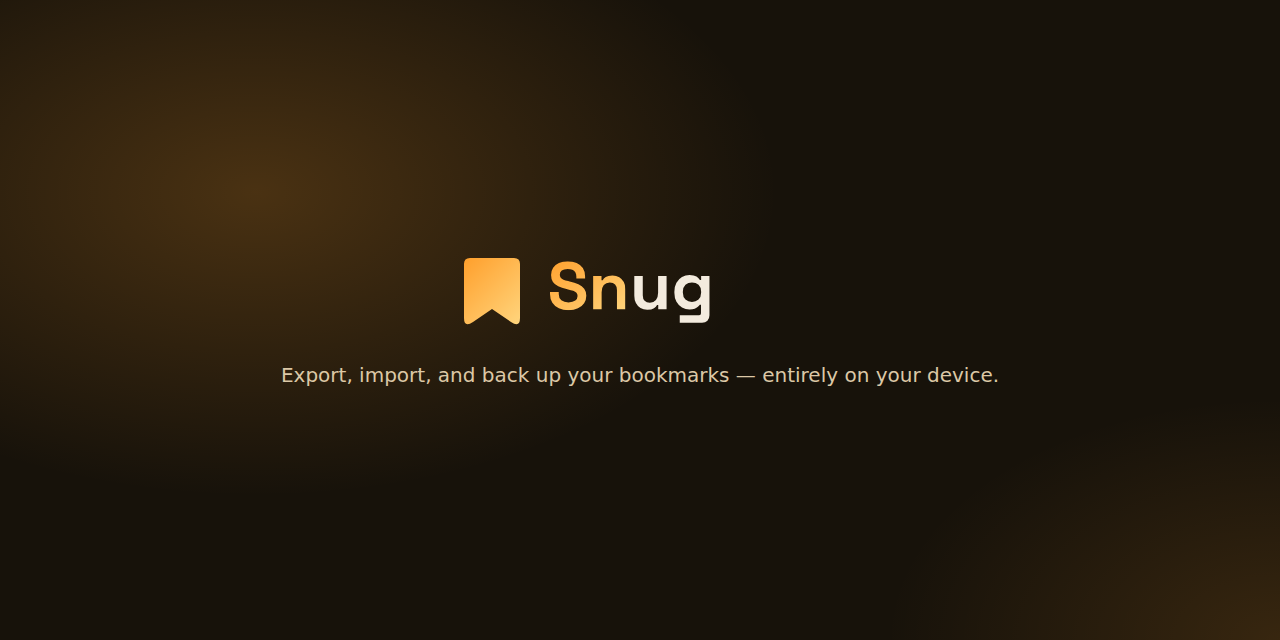
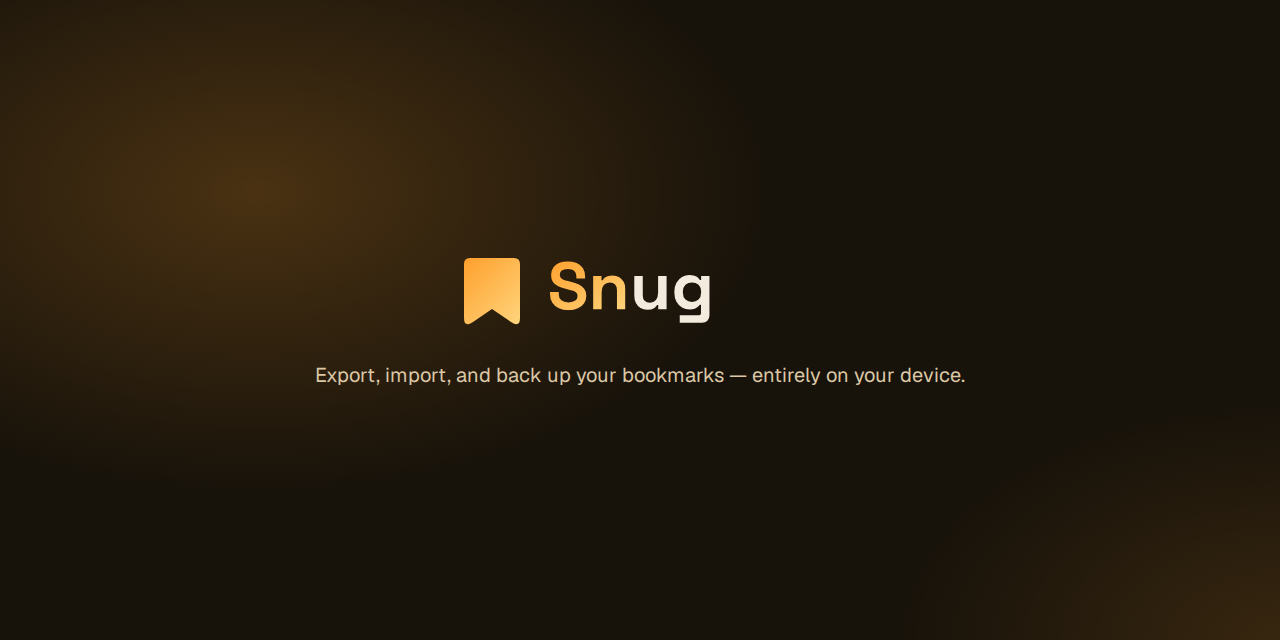
feat: ✨ port the brand export script as brand:export (#AO-1050) (#63)
feat: ✨ port the brand export script as brand:export

- Added docs/brand/tools/export.mjs importing playwright directly
- Wrote derived assets to their canonical homes in the repo
- Embedded Geist and Space Grotesk so renders are reproducible
- Regenerated readme cover and OG images with the real Geist font
- Added the brand:export script and a Regenerating assets README note

Refs: AO-1050

Changed region(s): [[0.2188, 0.5625, 0.7812, 0.625]]

diff --git a/docs/brand/README.md b/docs/brand/README.md
@@ -34,3 +34,12 @@ These are used by the repo directly, so they are not duplicated here:
 
 Store analytics exports contain private metrics and stay out of this public
 repository.
+
+## Regenerating assets
+
+The PNG marks, OG images, store tiles and README cover are derived from the SVGs
+in [`logo/`](logo/). After changing a source SVG, run `bun run brand:export`
+(needs Chromium: `bunx playwright install chromium`). The script embeds the
+fonts from [`brandbook/fonts/`](brandbook/fonts/), so output does not depend on
+fonts installed on the host. Its source is
+[`tools/export.mjs`](tools/export.mjs).
